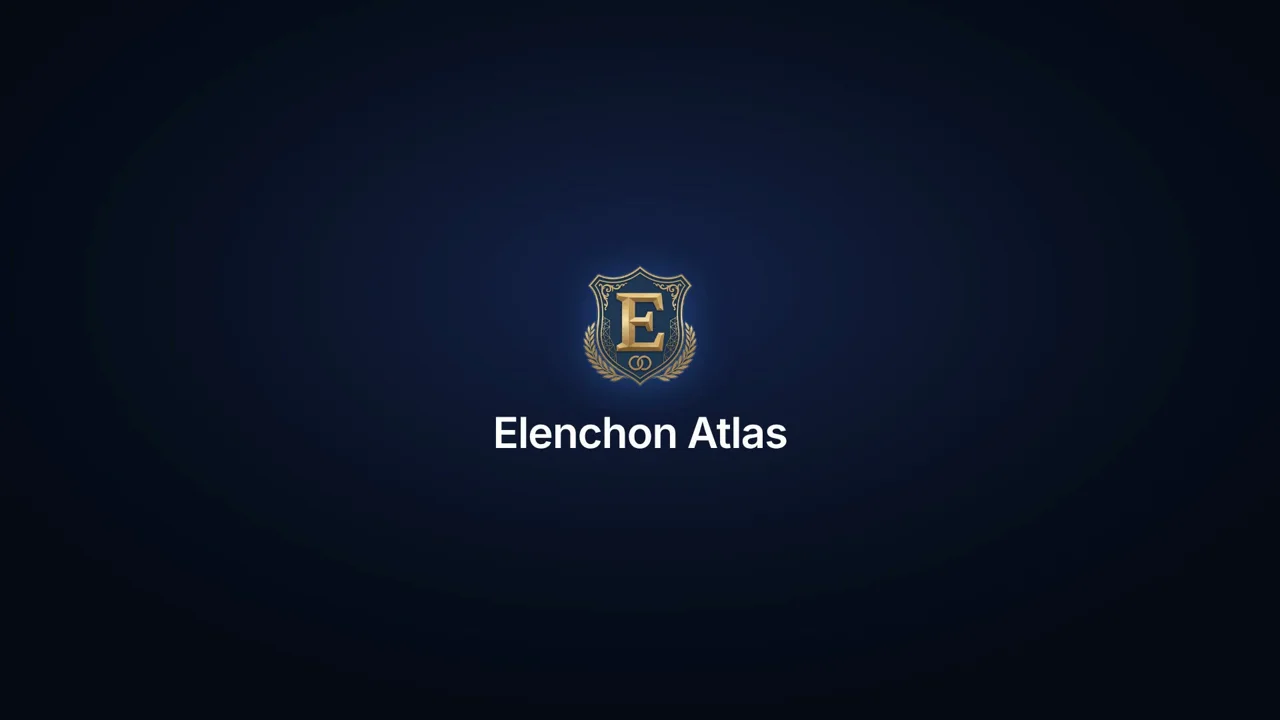
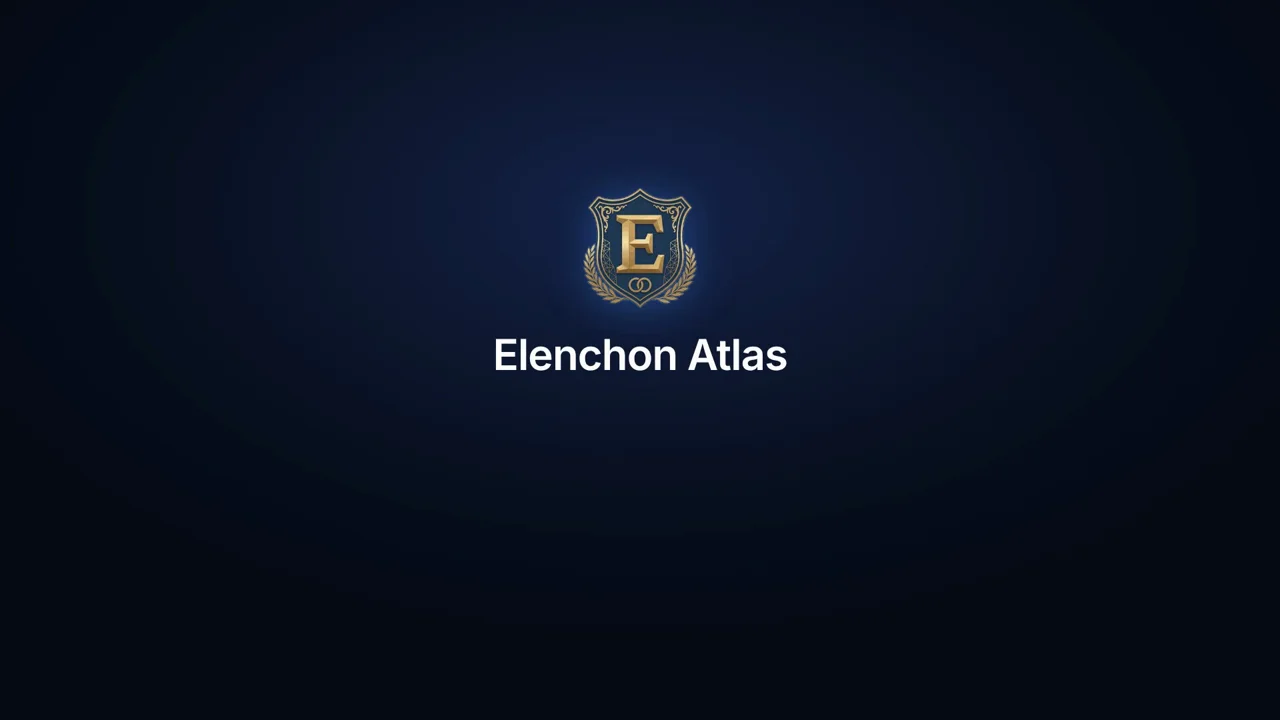
Video poster: crest + title + play button centred as one group
Claude-Session: https://claude.ai/code/session_01TXkxY6u2KmF5EvMC8whuAv

Changed region(s): [[0.375, 0.2444, 0.625, 0.6417]]

diff --git a/docs/style.css b/docs/style.css
@@ -4384,7 +4384,7 @@ button.app-figure-frame:focus-visible .app-figure-zoom-hint {
 .atlas-video-speed button:hover { border-color: var(--accent-blue); }
 .atlas-video-speed button[aria-pressed="true"] { background: var(--accent-blue-soft); border-color: var(--accent-blue); }
 .atlas-video-frame { position: relative; }
-.atlas-video-play { position: absolute; left: 50%; top: 76%; transform: translate(-50%, -50%);
+.atlas-video-play { position: absolute; left: 50%; top: 65%; transform: translate(-50%, -50%);
     width: 92px; height: 92px; border-radius: 50%; display: flex; align-items: center; justify-content: center;
     padding: 0; color: #fff; cursor: pointer;
     background: rgba(10, 18, 36, 0.5); border: 1.5px solid rgba(255, 255, 255, 0.55);
@@ -4393,7 +4393,7 @@ button.app-figure-frame:focus-visible .app-figure-zoom-hint {
     transition: background .15s, transform .15s; }
 .atlas-video-play:hover { background: rgba(59, 130, 246, 0.6); transform: translate(-50%, -50%) scale(1.06); }
 .atlas-video-frame.is-started .atlas-video-play { display: none; }
-@media (max-width: 600px) { .atlas-video-play { width: 52px; height: 52px; top: 81%; } .atlas-video-play svg { width: 30px; height: 30px; } }
+@media (max-width: 600px) { .atlas-video-play { width: 52px; height: 52px; top: 70%; } .atlas-video-play svg { width: 30px; height: 30px; } }
 /* Rare watery shimmer across the play button: one light-blue sweep, then a rest. */
 .atlas-video-play { overflow: hidden; isolation: isolate; }
 .atlas-video-play svg { position: relative; z-index: 1; }

diff --git a/docs/_includes/atlas-video.html b/docs/_includes/atlas-video.html
@@ -7,7 +7,7 @@
             <h2 class="atlas-video-h">{{ t_h }}</h2>
             <div class="atlas-video-frame">
             <video class="atlas-video-el" preload="metadata" playsinline
-                   poster="/static/video/atlas-{{ l }}-poster.webp?v=crest2" aria-label="{{ t_alt }}">
+                   poster="/static/video/atlas-{{ l }}-poster.webp?v=crest3" aria-label="{{ t_alt }}">
                 <source src="/static/video/atlas-{{ l }}.mp4" type="video/mp4">
             </video>
             <button type="button" class="atlas-video-play" aria-label="{{ t_play }}">
